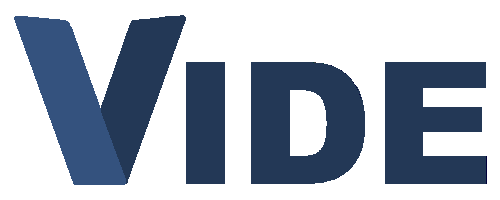
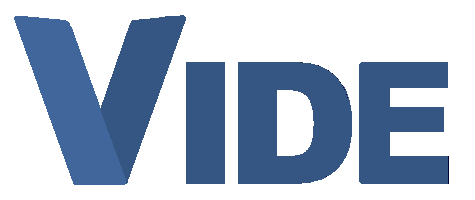
minor fix

diff --git a/index.html b/index.html
@@ -10,123 +10,135 @@
 		<link href='https://fonts.googleapis.com/css?family=JetBrains Mono' rel='stylesheet'>
 		<div class="github-fork-ribbon left-top" data-ribbon="Alpha Software">Alpha Software</div>
 	</head>
-   <body>
-      <div class="margin" style="min-height:70vh;margin-top:20vh">
-         <div class="w3-row">
-            <div class="w3-half">
-               <!--<img src="./assets/vide1.png" class="w3-animate-fade" alt="Vide" style="width:550px;margin:0;max-width:50vw">-->
-               <span style="widath:550px;margin:0;max-width:50vw;" class="fooo"><span class="vlet">V</span><span class="scaps">ide</span></span>
-               <div style="margin-left:2rem">
-                  <p style="font-size:1.7rem">Simple IDE for the V Programming<br>Language made in V.</p>
-                  <a href="https://github.com/IsaiahPatton/Vide/releases"><button class="w3-button w3-ablack dtn btn">
-                  <img src="./assets/icons8-download-96.png" height="16">&nbsp;Downloads</button></a>
-                  <a href="https://github.com/IsaiahPatton/Vide"><button class="w3-button w3-ablack btn">Github</button></a><br>
-               </div>
-            </div>
-            <div class="w3-half w3-animate-right w3-hide-small"><img src="./assets/main-dark.png" style="width:90%;float:right"></div>
-         </div>
-      </div>
-      <div class="shape-div-top"><img src="./shape.svg"></div>
-      <div class="gar curve" style="min-height:4vh;position:relative;color:white">
-         <div class="gr" style="min-height:4vh">
-            <div class="w3-content w3-row w3-padding-64">
-               <div class="w3-half">
-                  <div class="subtitle"><img src="./assets/icons8-lightweight-96.png">Lite</div>
-                  <table style="width:100%">
-                     <tr>
-                        <th style="border:0">&nbsp;</th>
-                        <th>Disk</th>
-                        <th>RAM</th>
-                     </tr>
-                     <tr>
-                        <td><img src="./assets/icon.ico" height="60rem"> Vide</td>
-                        <td>&lt; 4 MB</td>
-                        <td>~ 60 MB</td>
-                     </tr>
-                     <tr>
-                        <td><img src="./assets/vs-logo.png" height="60rem">VS Code</td>
-                        <td>308 MB</td>
-                        <td>~ 300+ MB</td>
-                     </tr>
-                  </table>
-               </div>
-               <div class="w3-half">
-                  <div class="subtitle"><img src="./assets/icons8-change-theme-96.png">Themes</div>
-                  <center><img src="./assets/themes.png" class="w3-border-black" style="width:300px;margin-top:10px;"></center>
-                  <br>
-               </div>
-            </div>
-         </div>
-      </div>
-      <div class="shape-div-b"><img src="./shape.svg"></div>
-      <div class="curve" style="min-height:80vh;margin-top:5vh;margin-bottom:10vh">
-         <div class="mar2 w3-row">
-            <div class="w3-row">
-               <div class="w3-third">
-                  <figure>
-                     <img src="./assets/main.png" style="width:100%" class="w3-border">
-                     <figcaption>Light Theme</figcaption>
-                  </figure>
-               </div>
-               <div class="w3-third">
-                  <figure>
-                     <img src="./assets/main-dark.png" style="width:100%" class="w3-border">
-                     <figcaption>Dark Theme</figcaption>
-                  </figure>
-               </div>
-               <div class="w3-third">
-                  <figure>
-                     <img src="./assets/new-proj.png" style="width:100%">
-                     <figcaption>New Project Dialog</figcaption>
-                  </figure>
-               </div>
-            </div>
-            <div class="w3-row">
-               <div class="w3-third">
-                  <figure>
-                     <img class="w3-border" src="./assets/preview-3.png" style="width:100%">
-                     <figcaption>Code Suggestions <i>(Beta)</i></figcaption>
-                  </figure>
-               </div>
-               <div class="w3-third">
-                  <figure>
-                     <img src="./assets/vpm.png" style="width:100%">
-                     <figcaption>UI for <a target="_blank" href="https://vpm.vlang.io/">VPM</a></figcaption>
-                  </figure>
-               </div>
-            </div>
-         </div>
-      </div>
-      <p>&nbsp;</p>
-      <div class="w3-container w3-padding-16" style="background:rgb(30,30,30);border-top: 3px solid #243342;color:rgb(230,230,230)">
-         <!-- <h3>Vide - Simple IDE for V.</h3>
-            <p>Icons by Icons8.com</p>
-            <small style="float:right">&copy; 2021-2023 Isaiah. </small>&middot; <a href="https://github.com/isaiahpatton/Vide">Github</a>
-            -->
-         <div class="w3-container w3-content">
-            <img src="./assets/vide.png" width="200px">
-
-            <div class="w3-container w3-padding-16">
-               <div class="w3-third">
-                  <p>
-		VIDE - Simple IDE for the V programming language made in V.
-		<br><br>
-		Icons by <a href="https://icons8.com">Icons8.com</a><br>
-		V Logo credits <a href="https://github.com/vlang/v-logo">here</a>
-	</p>
-               </div>
-               <div class="w3-third">
-	Links:
-                  <ul>
-		<li><a href="https://github.com/isaiahpatton/vide">Github</a></li>
-		<li><a href="https://github.com/IsaiahPatton/Vide/releases">Releases</a></li>
-		<li><a href="#">Tryit</a></li>
-	</ul>
-               </div>
-            </div>
-         </div>
-         <br>
-      </div>
-      <div class="copy" style="background:black;text-align:center;padding:4px;"><small>Copyright &copy; 2021-2022 Isaiah.</small></div>
-   </body>
+	<body>
+		<div class="margin" style="min-height:70vh;margin-top:20vh">
+			<div class="w3-row">
+				<div class="w3-half">
+					<img src="./vide.svg" class="w3-animate-fade" alt="Vide" style="width:550px;margin:0;max-width:50vw">
+					<div style="margin-left:2rem">
+						<p style="font-size:1.7rem">Simple IDE for the V Programming <br>Language made in V. </p>
+						<a href="https://github.com/IsaiahPatton/Vide/releases">
+							<button class="w3-button w3-ablack dtn btn"><img src="./assets/icons8-download-96.png" height="16">&nbsp;Downloads</button></a>
+						<a href="https://github.com/IsaiahPatton/Vide"><button class="w3-button w3-ablack btn">Github</button></a>
+						<br>
+					</div>
+				</div>
+				<div class="w3-half w3-animate-right w3-hide-small">
+					<img src="./assets/main-dark.png" style="width:90%;float:right">
+				</div>
+			</div>
+		</div>
+		<div class="shape-div-top">
+			<img src="./shape.svg">
+		</div>
+		<div class="gar curve" style="min-height:4vh;position:relative;color:white">
+			<div class="gr" style="min-height:4vh">
+				<div class="w3-content w3-row w3-padding-64">
+					<div class="w3-half">
+						<div class="subtitle">
+							<img src="./assets/icons8-lightweight-96.png">Lite
+						</div>
+						<table style="width:100%">
+							<tr>
+								<th style="border:0">&nbsp;</th>
+								<th>Disk</th>
+								<th>RAM</th>
+							</tr>
+							<tr>
+								<td><img src="./assets/icon1.png" height="60rem"> Vide</td>
+								<td>&lt; 4 MB</td>
+								<td>~ 60 MB</td>
+							</tr>
+							<tr>
+								<td><img src="./assets/vs-logo.png" height="60rem">VS Code</td>
+								<td>308 MB</td>
+								<td>~ 300+ MB</td>
+							</tr>
+						</table>
+					</div>
+					<div class="w3-half">
+						<div class="subtitle"><img src="./assets/icons8-change-theme-96.png">Themes</div>
+						<center>
+							<img src="./assets/themes.png" class="w3-border-black" style="width:300px;margin-top:10px;">
+						</center>
+						<br>
+					</div>
+				</div>
+			</div>
+		</div>
+		<div class="shape-div-b">
+			<img src="./shape.svg">
+		</div>
+		<div class="curve" style="min-height:80vh;margin-top:5vh;margin-bottom:10vh">
+			<div class="mar2 w3-row">
+				<div class="w3-row">
+					<div class="w3-third">
+						<figure>
+							<img src="./assets/main.png" style="width:100%" class="w3-border">
+							<figcaption>Light Theme</figcaption>
+						</figure>
+					</div>
+					<div class="w3-third">
+						<figure>
+							<img src="./assets/main-dark.png" style="width:100%" class="w3-border">
+							<figcaption>Dark Theme</figcaption>
+						</figure>
+					</div>
+					<div class="w3-third">
+						<figure>
+							<img src="./assets/new-proj.png" style="width:100%">
+							<figcaption>New Project Dialog</figcaption>
+						</figure>
+					</div>
+				</div>
+				<div class="w3-row">
+					<div class="w3-third">
+						<figure>
+							<img class="w3-border" src="./assets/preview-3.png" style="width:100%">
+							<figcaption>Code Suggestions <i>(Beta)</i>
+							</figcaption>
+						</figure>
+					</div>
+					<div class="w3-third">
+						<figure>
+							<img src="./assets/vpm.png" style="width:100%">
+							<figcaption>UI for <a target="_blank" href="https://vpm.vlang.io/">VPM</a>
+							</figcaption>
+						</figure>
+					</div>
+				</div>
+			</div>
+		</div>
+		<p>&nbsp;</p>
+		<div class="w3-container w3-padding-3a2" style="background:rgb(28,30,32);border-top: 3px solid #243342;color:rgb(230,230,230);padding:40px;">
+			<div class="w3-container w3-content">
+				<img src="./assets/vide.png" width="200px">
+				<div class="w3-container w3-padding-16">
+					<div class="w3-twothird">
+						<p> VIDE - Simple IDE for the V programming language made in V. <br>
+							<br> Icons by <a href="https://icons8.com">Icons8.com</a>
+							<br> V Logo credits <a href="https://github.com/vlang/v-logo">here</a>
+						</p>
+					</div>
+					<div class="w3-rest">
+						<div class="w3-half"> Links: <ul>
+								<li><a href="https://github.com/isaiahpatton/vide">Github</a></li>
+								<li><a href="https://github.com/IsaiahPatton/Vide/releases">Releases</a></li>
+								<li><a href="#">Tryit</a></li>
+							</ul>
+						</div>
+						<div class="w3-half">Other: <ul>
+								<li><a href="https://github.com/isaiahpatton/vide" target="_blank">Vide</a></li>
+								<li><a href="https://vpaint.app" target="_blank">VPaint</a></li>
+							</ul>
+						</div>
+					</div>
+				</div>
+			</div>
+			<br>
+		</div>
+		<div class="copy" style="background:black;text-align:center;padding:16px">
+			<p><small>Copyright &copy; 2021-2023 Isaiah.</small></p>
+		</div>
+	</body>
 </html>

diff --git a/index.css b/index.css
@@ -1,55 +1,23 @@
-         body {font-family: 'JetBrains Mono';background:rgb(30, 50, 80); color:white;}
-         .btn {padding-left:2rem;padding-right:2rem;min-width:10rem;border-radius:4px} i{font-size:.8rem}
-         .gr {background:#364d63}
-         .shape-div-top img, .shape-div-b img {position: relative;display:block;width:calc(100% + 1.3px);height:42px}
-         .shape-div-top img {transform:rotateX(180deg)}
-         .shape-div-b, .shape-div-top {position:relative;top:0;left:0;width:100%;overflow:hidden;line-height:0}
-         th,td {min-width:5rem;border:1px solid rgb(30,50,80);text-align:center}
-         td{padding-bottom:8px;padding-top:8px;}
-         table {border-radius:12px}
-         .subtitle {font-size:2rem;text-align:center;padding-bottom:3rem}
-         .github-fork-ribbon:before {background-color:rgb(50,85,130);box-shadow:none}
-         img {vertical-align:middle}
-         * {scrollbar-color: rgb(200,200,200) black;transition:all .2s}
-         .w3-ablack {background-color:rgb(30,30,30);border:1px solid rgb(90,90,90)}
-         .margin,.mar2 {
-         margin-left:auto;
-         margin-right:auto
-         }
-         .margin {max-width:1200px}
-         .mar2 {max-width:1300px}
-         @media (max-width:1205px){.margin,.mar2 {max-width:95%}}
-         @media (max-width:992px){.margin,.mar2 {max-width:100%}}
-         .w3-border {border: 1px solid rgb(50,50,50) !important;}
-.scaps {
-font-variant: small-caps;
-font-family: Inter, sans-serif;
-line-height: 55px;
-height: 55px;
-letter-spacing: -16px;
-font-size:240px
-}
+body {font-family: 'JetBrains Mono';background:rgb(30, 50, 80); color:white;}
+.btn {padding:1rem;padding-left:2.5rem;padding-right:2.5rem;min-width:11rem;border-radius:4px} i{font-size:.8rem}
+.gr {background:#364d63}
+.shape-div-top img, .shape-div-b img {position: relative;display:block;width:calc(100% + 1.3px);height:42px}
+.shape-div-top img {transform:rotateX(180deg)}
+.shape-div-b, .shape-div-top {position:relative;top:0;left:0;width:100%;overflow:hidden;line-height:0}
+th,td {min-width:5rem;border:1px solid rgb(30,50,80);text-align:center}
+td{padding-bottom:8px;padding-top:8px;}
+table {border-radius:12px}
+.subtitle {font-size:2rem;text-align:center;padding-bottom:3rem}
+.github-fork-ribbon:before {background-color:rgb(50,85,130);box-shadow:none}
+img {vertical-align:middle}
+* {scrollbar-color: rgb(200,200,200) black;transition:all .2s}
+.w3-ablack {background-color:rgb(30,30,30);border:1px solid rgb(90,90,90)}
+.margin,.mar2 {margin-left:auto;margin-right:auto}
+.margin {max-width:1200px}
+.mar2 {max-width:1300px}
+@media (max-width:1205px){.margin,.mar2 {max-width:95%}}
+@media (max-width:992px){.margin,.mar2 {max-width:100%}}
+.w3-border {border: 1px solid rgb(50,50,50) !important;}
 
-.vlet {
-font-family:  Inter, sans-serif;
-font-weight: 900;
-line-height: 55px;
-height: 55px;
-letter-spacing: -14px;
-font-size:240px;
-}
-
-.fooo {
-line-height: 1em;
-color:#4687b9;
-font-size: 200px;
-  background: -webkit-linear-gradient(rgb(76,126,186), rgb(52, 82, 126));
-  -webkit-background-clip: text;
-  -webkit-text-fill-color: transparent;
-}
-
-.vlet, .scaps {
-position: relative;
-  bottom: -0.02em;
-line-height: 0.75em;
-}
+ul > li { padding: 4px; }
+ul > li:hover {background:black}
